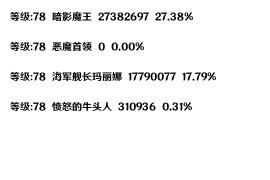
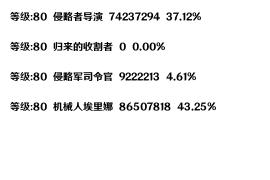
优化

diff --git a/main.py b/main.py
@@ -2,7 +2,7 @@
 Author: 七画一只妖 1157529280@qq.com
 Date: 2023-03-27 09:01:10
 LastEditors: 七画一只妖 1157529280@qq.com
-LastEditTime: 2023-11-17 12:02:31
+LastEditTime: 2023-12-01 21:37:27
 FilePath: \060坎公骑冠剑会战工具\main.py
 Description: 这是默认设置,请设置`customMade`, 打开koroFileHeader查看配置 进行设置: https://github.com/OBKoro1/koro1FileHeader/wiki/%E9%85%8D%E7%BD%AE
 '''
@@ -17,25 +17,25 @@ loop = asyncio.get_event_loop()
 # 填写完cookies之后就能在这操作了，想要运行下面功能就把哪行解开运行即可
 
 # 日报
-# try:
-#     print(loop.run_until_complete(data_format.today_report("114514")))
-# except Exception as e:
-#     print(e)
+try:
+    print(loop.run_until_complete(data_format.today_report("114514")))
+except Exception as e:
+    print(e)
 
 # 总伤
-# try:
-#     print(loop.run_until_complete(data_format.all_report("114514")))
-# except Exception as e:
-#     print(e)
+try:
+    print(loop.run_until_complete(data_format.all_report("114514")))
+except Exception as e:
+    print(e)
 
 # 进度
-# try:
-#     print(loop.run_until_complete(data_format.get_rate("114514")))
-# except Exception as e:
-#     print(e)
+try:
+    print(loop.run_until_complete(data_format.get_rate("114514")))
+except Exception as e:
+    print(e)
 
 # 出刀
-# try:
-#     print(loop.run_until_complete(data_format.get_knife("114514")))
-# except Exception as e:
-#     print(e)
+try:
+    print(loop.run_until_complete(data_format.get_knife("114514")))
+except Exception as e:
+    print(e)

diff --git a/payload2/data_format.py b/payload2/data_format.py
@@ -2,7 +2,7 @@
 Author: 七画一只妖 1157529280@qq.com
 Date: 2023-10-07 10:22:42
 LastEditors: 七画一只妖 1157529280@qq.com
-LastEditTime: 2023-11-17 11:50:19
+LastEditTime: 2023-12-01 21:39:20
 Description: 这是默认设置,请设置`customMade`, 打开koroFileHeader查看配置 进行设置: https://github.com/OBKoro1/koro1FileHeader/wiki/%E9%85%8D%E7%BD%AE
 '''
 import asyncio
@@ -38,7 +38,7 @@ async def today_report(user_id):
                 # 存在则累加damage
                 report[user_name][damage["boss_name"]] += damage["damage"]
     # print(report)
-    return make_image(report, user_id)
+    return make_image(report, user_id, "今日伤害")
 
 
 # 获取总榜
@@ -75,7 +75,7 @@ async def all_report(user_id):
                     # 存在则累加damage
                     report[user_name][damage["boss_name"]] += damage["damage"]
     # print(report)
-    return make_image(report, user_id)
+    return make_image(report, user_id, "总排行")
 
 
 # 获取进度

diff --git a/payload2/get_image.py b/payload2/get_image.py
@@ -2,7 +2,7 @@
 Author: 七画一只妖 1157529280@qq.com
 Date: 2023-10-07 10:53:46
 LastEditors: 七画一只妖 1157529280@qq.com
-LastEditTime: 2023-11-17 11:58:28
+LastEditTime: 2023-12-01 21:38:46
 FilePath: \060坎公骑冠剑会战工具\payload2\test2.py
 Description: 这是默认设置,请设置`customMade`, 打开koroFileHeader查看配置 进行设置: https://github.com/OBKoro1/koro1FileHeader/wiki/%E9%85%8D%E7%BD%AE
 '''
@@ -49,7 +49,7 @@ TEAT_DATA = {
 
 
 # 获取柱状图图表
-def make_image(data, user_id):
+def make_image(data, user_id, cm_type:str):
 
     # 获取所有怪物种类
     monsters = set(monster for user_data in data.values()
@@ -164,7 +164,7 @@ def make_image(data, user_id):
 
     # 保存图表为图片文件
     # image.show()
-    path = f"{BASE_PATH}\\cache\\表格图_{user_id}.jpg"
+    path = f"{BASE_PATH}\\cache\\{cm_type}图_{user_id}.jpg"
     image.save(path)
     return path
 

diff --git a/README.md b/README.md
@@ -2,7 +2,7 @@
  * @Author: 七画一只妖 1157529280@qq.com
  * @Date: 2023-03-27 09:43:36
  * @LastEditors: 七画一只妖 1157529280@qq.com
- * @LastEditTime: 2023-11-13 17:25:40
+ * @LastEditTime: 2023-12-01 21:49:06
  * @FilePath: \060坎公骑冠剑会战工具\README.md
  * @Description: 这是默认设置,请设置`customMade`, 打开koroFileHeader查看配置 进行设置: https://github.com/OBKoro1/koro1FileHeader/wiki/%E9%85%8D%E7%BD%AE
 -->
@@ -37,6 +37,10 @@
 >- 3.使用B站登录
 >- 4.在百宝袋页面按下【F12 没有F12右键审元素】打开DEV开发者工具 在【网络】一栏随便找到一个请求，找到Cookie字段并复制值
 >- 5.关闭无痕窗口浏览器（不要使用bigfun退出登录 会导致接口失效 也不要切换账号会立刻失效）
+
+3.运行main.py（也不用管不管注释了，直接运行就行，反正会分别生成4张图出来）
+
+4.在payload2/cache文件夹下会生成结果图
 
 ### 效果展示与加入机器人后的效果
 (以下是图片，在payload/cache文件夹下，数字即main.py里面的传参，目的是为了可以让多个用户使用，多个公会也可以共用一个机器人)
